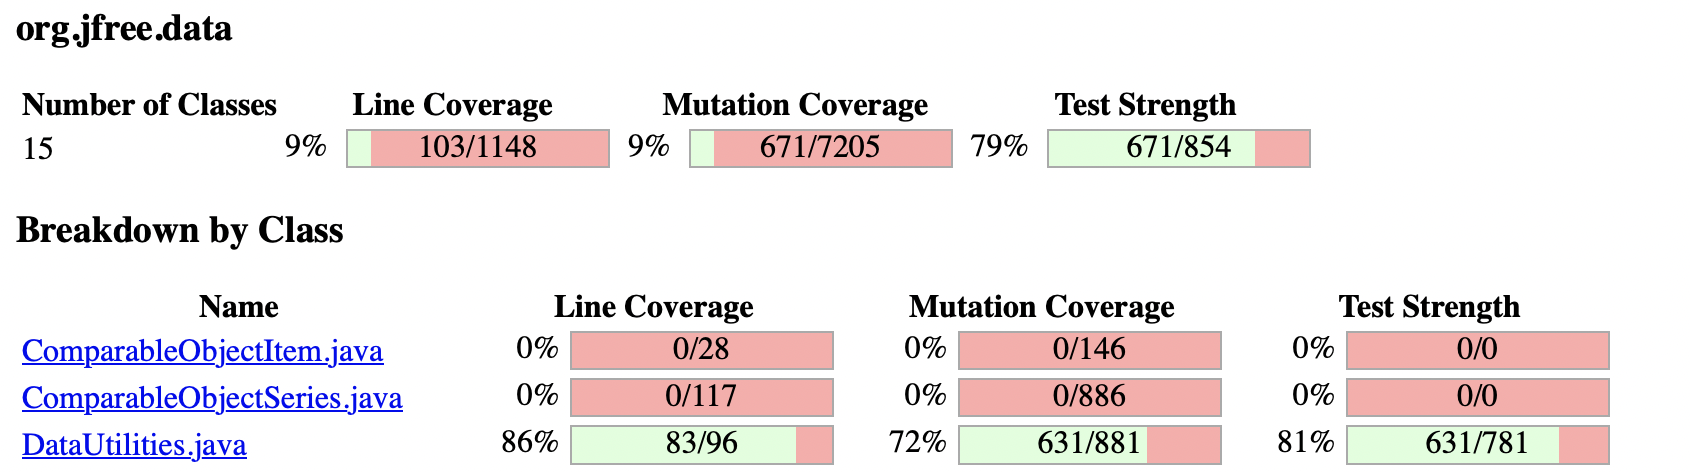
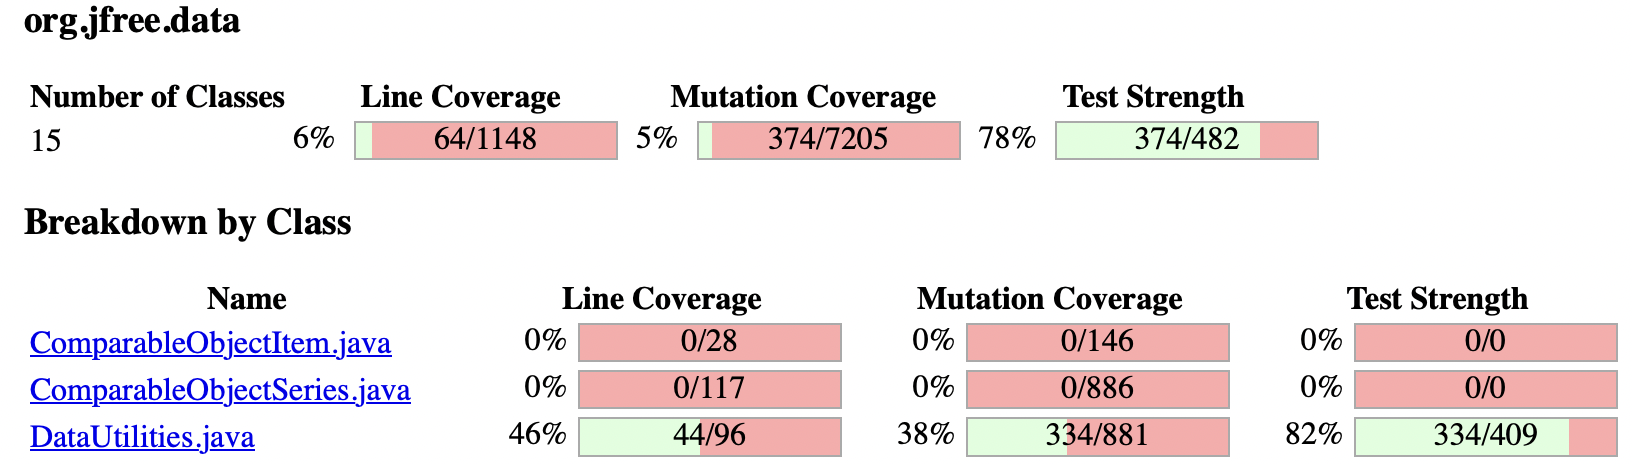
update

diff --git a/seng438-a4-Group-18.md b/seng438-a4-Group-18.md
@@ -44,10 +44,10 @@ Figure 3 - Range PIT Test Coverage Report for new test suite
 Figure 4 - Range PIT Mutations for new test suite  
 
 ## (2) DataUtilities Class
-![Caption 5](media/6.png)  
+![Caption 5](media/5.png)  
 Figure 5 - DataUtilities PIT Test Coverage Report for old test suite  
 
-![Caption 6](media/5.png)  
+![Caption 6](media/6.png)  
 Figure 6 - DataUtilities PIT Mutations for old test suite  
 
 ![Caption 7](media/7.png)  
